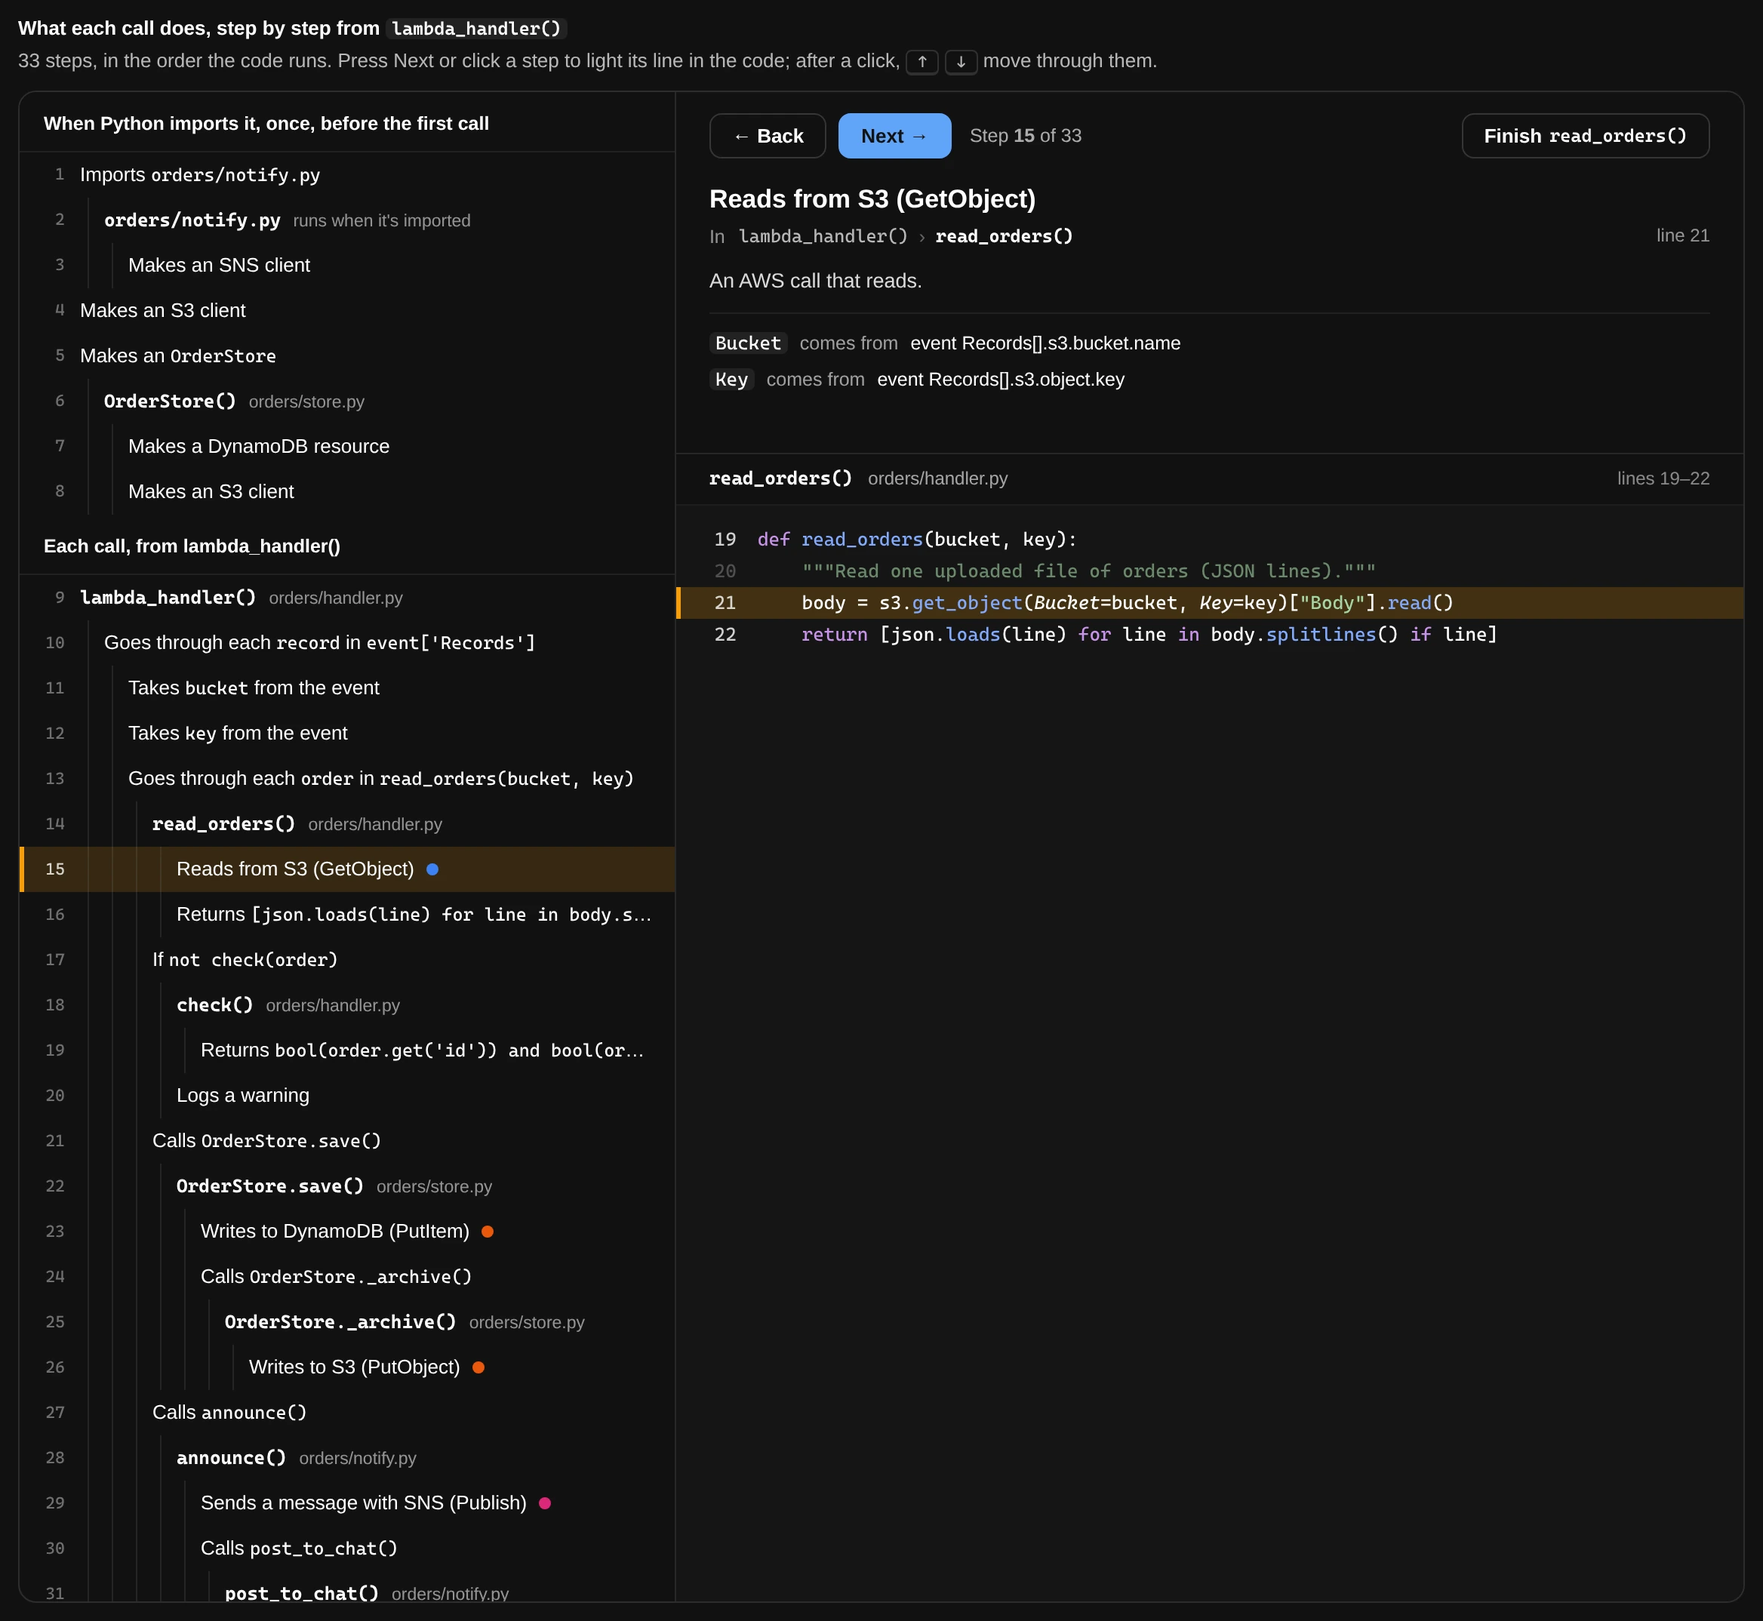
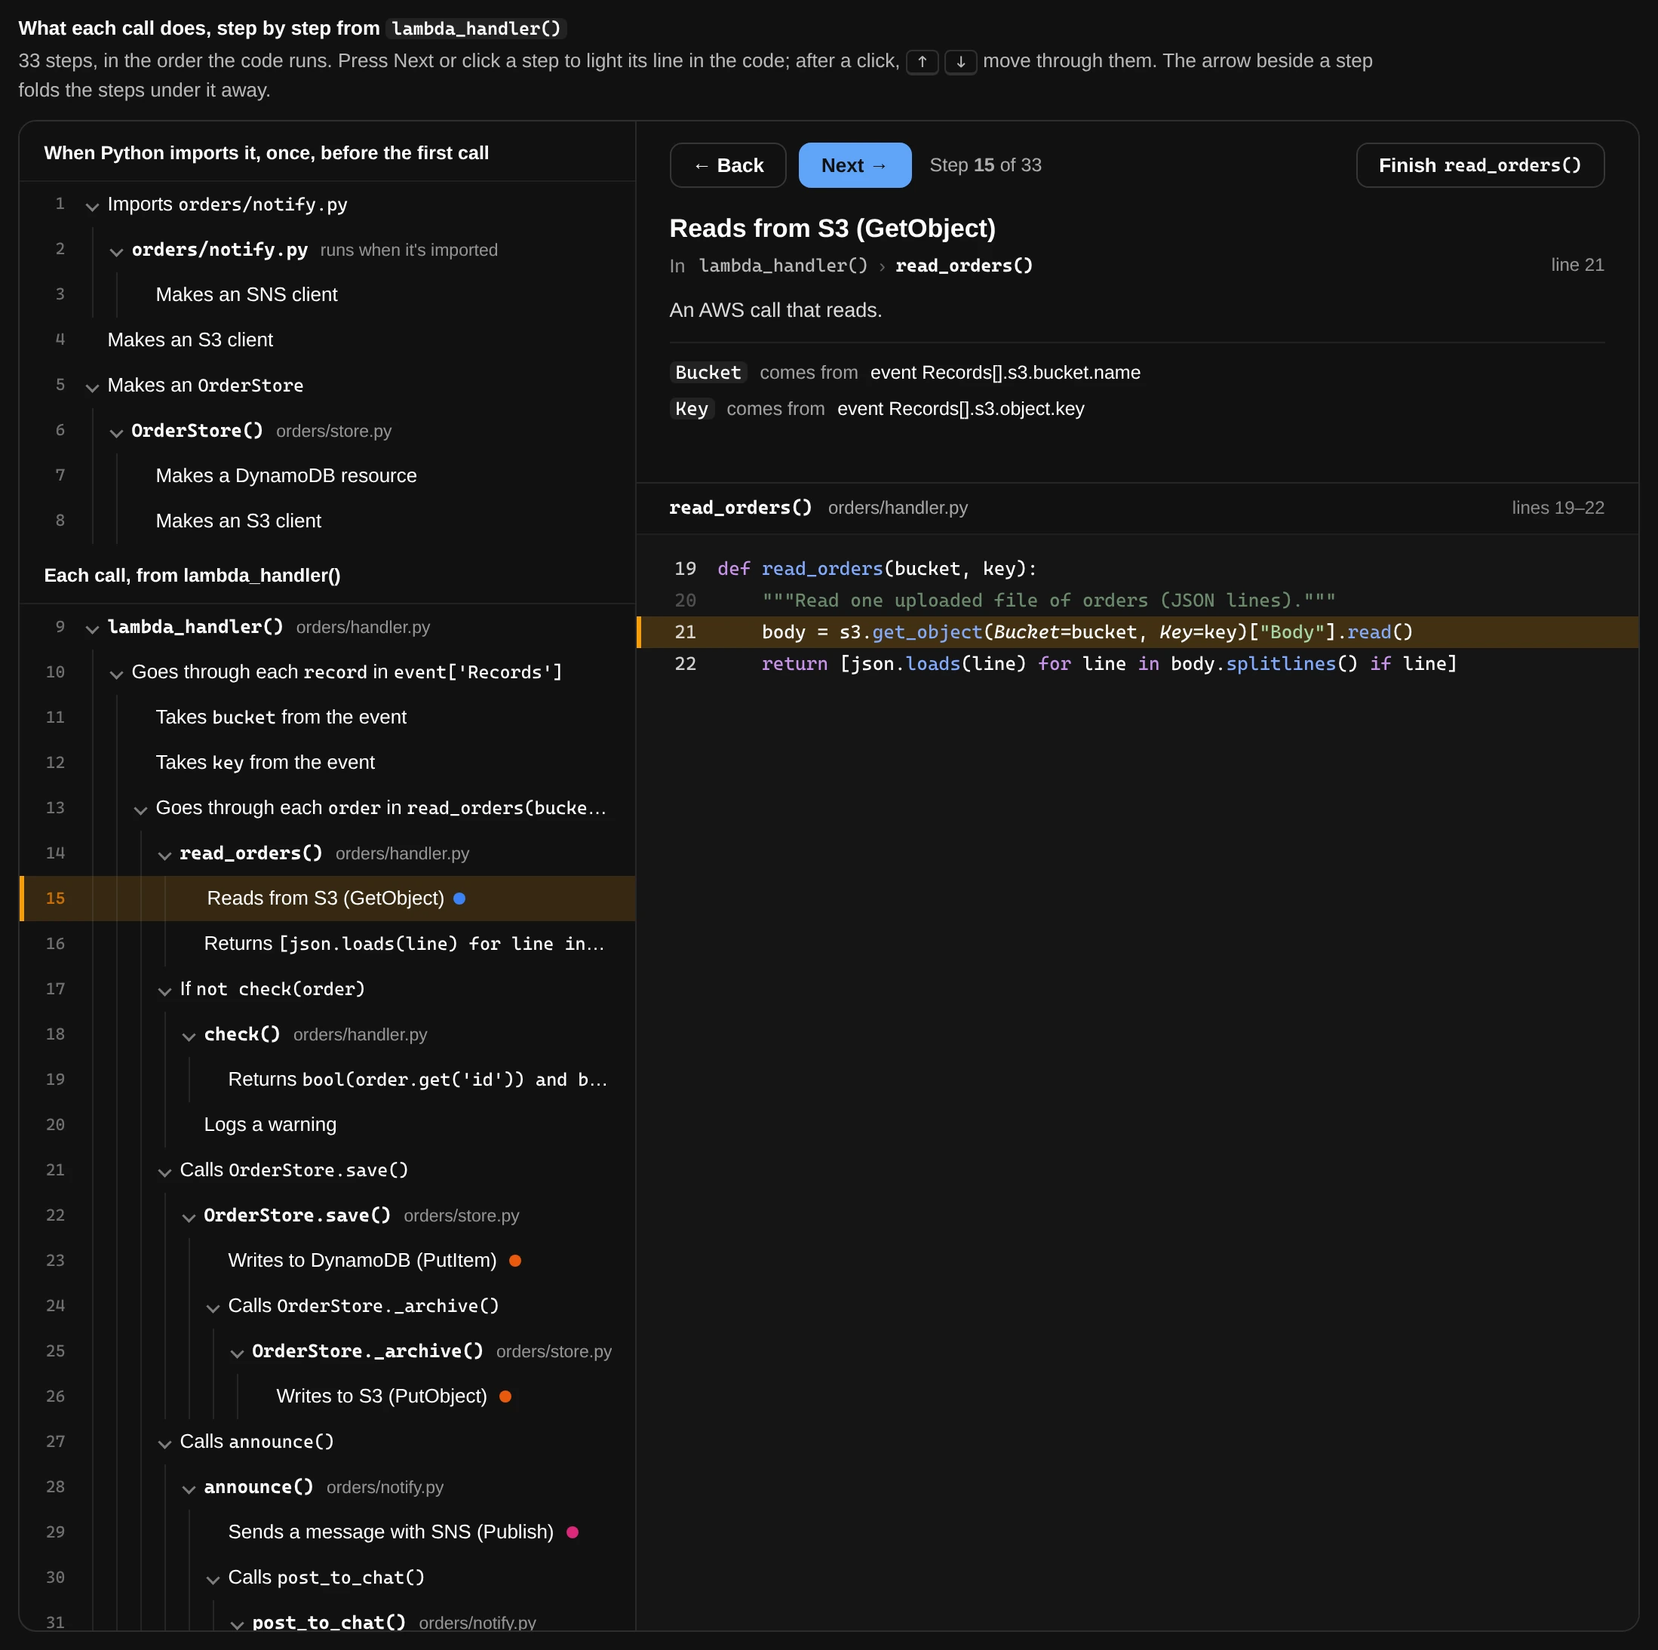
Fold Step by step's list like a tree, and animate the tab
A step with steps under it gets an arrow that folds them away, leaving a
count. Each fold is a checkbox; the steps under it carry its number as a
class, so one rule per fold hides them, beside it or inside the boxes of
what it calls, without :has(). Cards and code still show for a step
folded away.

The tab also moves a little: the card comes in a line at a time, the lit
row eases in, a dot pings when its step is reached, the code fades in on
entering another function and the lit line glows as it lands. All of it
stops under prefers-reduced-motion.

diff --git a/src/code_node/report/style.py b/src/code_node/report/style.py
@@ -298,13 +298,27 @@ _EXTRA_CSS = """\
 .cnd .walk .ws{border-left:1px solid rgba(127,127,127,.2)}
 .cnd .walk .wch{position:sticky;top:0;z-index:2;padding:12px 16px 9px;font-size:12.5px;font-weight:650;background:var(--bg);border-bottom:1px solid rgba(127,127,127,.14)}
 .cnd .walk .wr{display:block;width:0;height:0;margin:0;border:0;padding:0;opacity:0;appearance:none;-webkit-appearance:none;pointer-events:none}
-.cnd .walk .wil{display:flex;align-items:center;gap:10px;min-height:30px;padding:0 14px 0 4px;cursor:pointer;white-space:nowrap;user-select:none;-webkit-user-select:none;transition:background-color .15s}
+.cnd .walk .wil{display:flex;align-items:center;gap:10px;min-height:30px;padding:0 14px 0 4px;cursor:pointer;white-space:nowrap;user-select:none;-webkit-user-select:none;transition:background-color .2s,box-shadow .2s;animation:cnd-row .22s ease-out}
+@keyframes cnd-row{from{opacity:0;transform:translateY(-3px)}}
+.cnd .walk .wcx{position:absolute;width:0;height:0;margin:0;opacity:0;pointer-events:none}
+.cnd .walk .wtg{position:relative;z-index:1;display:block;height:0}
+.cnd .walk .wtg i{position:absolute;top:0;left:calc(40px + var(--d)*16px);width:16px;height:30px;border-radius:4px;cursor:pointer;opacity:.45;transition:opacity .15s,background-color .15s}
+.cnd .walk .wtg i::before{content:"";position:absolute;left:5px;top:12px;width:5px;height:5px;border-right:1.6px solid currentColor;border-bottom:1.6px solid currentColor;transform:rotate(45deg);transition:transform .2s cubic-bezier(.3,.7,.3,1)}
+.cnd .walk .wtg:hover i{opacity:1;background:rgba(127,127,127,.14)}
+.cnd .walk .wcx:checked+.wtg i{opacity:.8}
+.cnd .walk .wcx:checked+.wtg i::before{transform:translate(-1px,1px) rotate(-45deg)}
+.cnd .walk .wcnt{display:none;flex:none;font-size:11px;padding:0 7px;border-radius:9px;line-height:17px;background:rgba(127,127,127,.14);opacity:.75;animation:cnd-in .2s ease}
+.cnd .walk .wcx:checked+.wtg+.wr+.wil .wcnt{display:inline-block}
 .cnd .walk .wil:hover{background-color:rgba(127,127,127,.08)}
 .cnd .walk .wr:checked+.wil{background-color:rgba(245,158,11,.16);box-shadow:inset 3px 0 #f59e0b}
 .cnd .walk .wr:focus-visible+.wil{outline:2px solid var(--blue);outline-offset:-2px}
 .cnd .walk .wno{flex:0 0 26px;text-align:right;font:11px var(--mono);opacity:.4;font-variant-numeric:tabular-nums}
-.cnd .walk .wr:checked+.wil .wno{opacity:.8}
-.cnd .walk .wx{display:flex;align-items:center;align-self:stretch;gap:8px;min-width:0;flex:1;padding-left:calc(var(--d)*16px);background:repeating-linear-gradient(90deg,rgba(127,127,127,.18) 0 1px,transparent 1px 16px) 5px 0/calc(var(--d)*16px) 100% no-repeat}
+.cnd .walk .wr:checked+.wil .wno{opacity:.9;color:#d97706;font-weight:600}
+.cnd .walk .wtx{transition:transform .2s ease}
+.cnd .walk .wr:checked+.wil .wtx{transform:translateX(2px)}
+.cnd .walk .wr:checked+.wil .wdot{animation:cnd-ping 1s ease-out 2}
+@keyframes cnd-ping{from{box-shadow:0 0 0 0 var(--c,rgba(127,127,127,.6))}to{box-shadow:0 0 0 6px transparent}}
+.cnd .walk .wx{display:flex;align-items:center;align-self:stretch;gap:8px;min-width:0;flex:1;padding-left:calc(var(--d)*16px + 18px);background:repeating-linear-gradient(90deg,rgba(127,127,127,.18) 0 1px,transparent 1px 16px) 8px 0/calc(var(--d)*16px) 100% no-repeat}
 .cnd .walk .wtx{min-width:0;overflow:hidden;text-overflow:ellipsis}
 .cnd .walk .wtx code{font:12px var(--mono);background:none;padding:0}
 .cnd .walk :is(.k-def,.k-module) .wtx b{font:650 12.5px var(--mono)}
@@ -312,7 +326,10 @@ _EXTRA_CSS = """\
 .cnd .walk .wdot{flex:none;width:8px;height:8px;border-radius:50%;background:var(--c,rgba(127,127,127,.6))}
 .cnd .walk :is(.d-aws-reads,.d-lib-reads){--c:#3b82f6}.cnd .walk :is(.d-aws-writes,.d-lib-writes){--c:#ea580c}
 .cnd .walk :is(.d-aws-sends,.d-lib-sends,.d-http){--c:#db2777}.cnd .walk :is(.d-aws-runs,.d-lib-runs){--c:#9333ea}.cnd .walk .d-aws-signs{--c:#64748b}
-.cnd .walk .wc{display:none;position:absolute;left:var(--lw);right:0;top:0;height:var(--ch);box-sizing:border-box;overflow:auto;padding:14px 22px 12px;white-space:normal;cursor:auto;border-left:1px solid rgba(127,127,127,.2);border-bottom:1px solid rgba(127,127,127,.18);background:var(--bg);animation:cnd-in .18s ease}
+.cnd .walk .wc{display:none;position:absolute;left:var(--lw);right:0;top:0;height:var(--ch);box-sizing:border-box;overflow:auto;padding:14px 22px 12px;white-space:normal;cursor:auto;border-left:1px solid rgba(127,127,127,.2);border-bottom:1px solid rgba(127,127,127,.18);background:var(--bg)}
+.cnd .walk .wc>*{animation:cnd-in .24s ease both}
+.cnd .walk .wc>.whead{animation-delay:.03s}.cnd .walk .wc>.wstk{animation-delay:.06s}.cnd .walk .wc>.wsay{animation-delay:.09s}.cnd .walk .wc>.wthen{animation-delay:.12s}
+.cnd .walk .wfacts li{animation:cnd-in .24s ease both;animation-delay:.12s}.cnd .walk .wfacts li:nth-child(2){animation-delay:.15s}.cnd .walk .wfacts li:nth-child(n+3){animation-delay:.18s}
 .cnd .walk .wr:checked+.wil+.wc{display:block}
 .cnd .walk .wnav{display:flex;flex-wrap:wrap;align-items:center;gap:8px}
 .cnd .walk .wbt{display:inline-flex;align-items:center;gap:5px;padding:4px 14px;border:1px solid rgba(127,127,127,.32);border-radius:8px;font-size:13px;font-weight:600;line-height:20px;cursor:pointer;user-select:none;-webkit-user-select:none;transition:background-color .12s,transform .06s}
@@ -348,7 +365,9 @@ _EXTRA_CSS = """\
 .cnd .walk :is(.wfm,.wfv){opacity:.6}
 .cnd .walk .wthen{margin-top:10px;font-size:12px;opacity:.6}
 .cnd .walk .wf{display:none;position:absolute;left:var(--lw);right:0;top:var(--ch);bottom:0;flex-direction:column;border-left:1px solid rgba(127,127,127,.2);background:var(--bg)}
-.cnd .walk .wfn>.wr:checked~.wf{display:flex}
+.cnd .walk .wfn>.wr:checked~.wf{display:flex;animation:cnd-fade .25s ease}
+.cnd .walk .wfh{animation:cnd-in .25s ease}
+@keyframes cnd-fade{from{opacity:0}}
 .cnd .walk .wfh{display:flex;flex-wrap:wrap;align-items:baseline;gap:4px 10px;padding:8px 22px;font-size:12px;border-bottom:1px solid rgba(127,127,127,.12)}
 .cnd .walk .wfh b{font:650 12.5px var(--mono)}
 .cnd .walk .wfh span{opacity:.62}
@@ -356,15 +375,16 @@ _EXTRA_CSS = """\
 .cnd .walk .wfw{position:relative;flex:1;min-height:0;overflow-x:auto;overflow-y:hidden;container-type:size;background:rgba(127,127,127,.03)}
 .cnd .walk .wfp{position:relative;box-sizing:border-box;width:max-content;min-width:100%;padding:var(--pad) 0;font:12.5px/var(--lh) var(--mono);
  translate:0 min(0px,max(calc(100cqh - var(--n)*var(--lh) - 2*var(--pad)),calc(36cqh - var(--k,0)*var(--lh))));transition:translate .32s cubic-bezier(.25,.8,.25,1)}
-.cnd .walk .wbar{position:absolute;left:0;right:0;top:calc(var(--pad) + var(--k,-9)*var(--lh));height:var(--lh);background:rgba(245,158,11,.2);box-shadow:inset 3px 0 #f59e0b;transition:top .32s cubic-bezier(.25,.8,.25,1)}
+.cnd .walk .wbar{position:absolute;left:0;right:0;top:calc(var(--pad) + var(--k,-9)*var(--lh));height:var(--lh);background:rgba(245,158,11,.2);box-shadow:inset 3px 0 #f59e0b;transition:top .32s cubic-bezier(.25,.8,.25,1);animation:cnd-glow 1.2s ease-in-out 2}
+@keyframes cnd-glow{50%{background:rgba(245,158,11,.3)}}
 .cnd .walk .sl{position:relative;display:block;padding-right:16px;white-space:pre}
 .cnd .walk span.sl{opacity:.6}
-.cnd .walk label.sl{cursor:pointer}
+.cnd .walk label.sl{cursor:pointer;transition:background-color .15s}
 .cnd .walk label.sl:hover{background:rgba(127,127,127,.1)}
 .cnd .walk .sn{display:inline-block;width:3.2em;padding-right:14px;text-align:right;opacity:.42;user-select:none;-webkit-user-select:none}
 .cnd .walk label.sl .sn{opacity:.8}
 @media (max-width:860px){.cnd .walk{--lt:40vh;grid-template-columns:minmax(0,1fr);grid-template-rows:var(--lt) 1fr;height:calc(var(--lt) + var(--ch) + 380px)}.cnd .walk .wl{max-height:none}.cnd .walk :is(.wc,.wf){left:0;border-left:0}.cnd .walk .wc{top:var(--lt);border-top:1px solid rgba(127,127,127,.2);padding:12px 16px}.cnd .walk .wf{top:calc(var(--lt) + var(--ch))}.cnd .walk .ws{border-left:0}}
-@media (prefers-reduced-motion:reduce){.cnd .walk .wfp,.cnd .walk .wbar,.cnd .walk .wc,.cnd .tabs>.tp{transition:none;animation:none}}"""
+@media (prefers-reduced-motion:reduce){.cnd .walk :is(.wfp,.wbar,.wc,.wc>*,.wfacts li,.wil,.wtx,.wdot,.wcnt,.wf,.wfh,.wtg i,.wtg i::before),.cnd .tabs>.tp{transition:none;animation:none}}"""
 
 _CSS = _base_css(_ROOT, _EXTRA_CSS)
 

diff --git a/src/code_node/report/walk.py b/src/code_node/report/walk.py
@@ -7,6 +7,11 @@ No JavaScript: each step is a radio button (one group, so once one has focus the
 Each function's steps sit in a box of their own, with the function's code drawn once at the end of it; the CSS shows
 the card after the checked button and the code of its box with sibling selectors, so the light slides from line to
 line as you step, and a step costs the same however many there are.
+
+The list folds like a tree: a step with steps under it has a checkbox before it, and its arrow folds them away. Each
+step under it carries the class `wu<step>`, so one rule per fold hides them, whether they sit beside it or inside the
+box of a function it calls (`#cx5:checked ~ .wu5, #cx5:checked ~ * .wu5`). Only the steps' rows are hidden: the
+current one's card and code still show when it's folded away.
 """
 
 from __future__ import annotations
@@ -523,11 +528,29 @@ def _frame_html(index: int, frame: _Frame, rows: list[tuple[int, str]]) -> str:
     )
 
 
-def _item_html(stops: list[_Stop], i: int, card: str) -> str:
+def _folds(stops: list[_Stop]) -> tuple[list[int], list[list[int]]]:
+    """
+    How many steps sit under each stop in the list, and the stops each one sits under, outermost first.
+    """
+    under = [0] * len(stops)
+    above: list[list[int]] = []
+    opened: list[int] = []
+    for i, stop in enumerate(stops):
+        while opened and (stops[opened[-1]].depth >= stop.depth or stops[opened[-1]].chapter != stop.chapter):
+            opened.pop()
+        for j in opened:
+            under[j] += 1
+        above.append(list(opened))
+        opened.append(i)
+    return under, above
+
+
+def _item_html(stops: list[_Stop], i: int, card: str, under: int = 0, above: tuple[int, ...] = ()) -> str:
     """
     A step in the list: its radio button, then its number and what it does in a few words (or, for a function it goes
     into, the function's name and file, as a heading over its steps) as the button's label, then its card, which shows
-    (beside the list) while the button is checked.
+    (beside the list) while the button is checked. under: how many steps sit under it, folded away by the checkbox and
+    arrow before it; above: the steps it sits under, whose folds hide it.
     """
     stop = stops[i]
     step = stop.step
@@ -543,10 +566,18 @@ def _item_html(stops: list[_Stop], i: int, card: str) -> str:
         dot = f'<span class="wdot d-{said}" title="{_esc(_NOTE_TIPS.get(said, ""))}"></span>' if said in _DOTS else ""
         text = f'<span class="wtx">{headline}</span>{dot}'
     checked = " checked" if i == 0 else ""
+    hidden_by = "".join(f" wu{j}" for j in above)
+    fold = ""
+    if under:
+        fold = (
+            f'<input type="checkbox" class="wcx" id="cx{i}" tabindex="-1"><label class="wtg{hidden_by}" for="cx{i}" '
+            f'style="--d:{stop.depth}" title="Fold or unfold the {_plural(under, "step")} under it"><i></i></label>'
+        )
+        text += f'<span class="wcnt">{_plural(under, "step")}</span>'
     return (
-        f'<input type="radio" class="wr" name="{_GROUP}" id="cw{i}"{checked}><label class="wil k-{_esc(step.kind)}" '
-        f'for="cw{i}" style="--d:{stop.depth}"><span class="wno">{i + 1}</span><span class="wx">{text}</span>'
-        f"</label>{card}"
+        f'{fold}<input type="radio" class="wr" name="{_GROUP}" id="cw{i}"{checked}><label class="wil '
+        f'k-{_esc(step.kind)}{hidden_by}" for="cw{i}" style="--d:{stop.depth}"><span class="wno">{i + 1}</span>'
+        f'<span class="wx">{text}</span></label>{card}'
     )
 
 
@@ -576,6 +607,7 @@ def _walk_html(block: _Walk, report: _Report) -> str:
         rows = _frame_rows(frame, highlighted.get(frame.file, []), stops)
         rows_of.append({number: n for n, (number, _) in enumerate(rows) if number})
         drawn.append(_frame_html(k, frame, rows))
+    under, above = _folds(stops)
     out: list[str] = []
     opened: list[int] = []  # the frames whose boxes are open, innermost last
     chapter = -1
@@ -593,7 +625,9 @@ def _walk_html(block: _Walk, report: _Report) -> str:
         if not opened or opened[-1] != stop.frame:  # into a call
             out.append('<div class="wfn">')
             opened.append(stop.frame)
-        out.append(_item_html(stops, i, _card_html(stops, i, first, docs, block.editor)))
+        out.append(_item_html(stops, i, _card_html(stops, i, first, docs, block.editor), under[i], tuple(above[i])))
+        if under[i]:  # its fold hides the steps under it, beside it or in the boxes of what it calls
+            report.rules.add(f".{root} #cx{i}:checked~.wu{i},.{root} #cx{i}:checked~* .wu{i}{{display:none}}")
         at = rows_of[stop.frame].get(stop.lit)
         if at is not None:  # the line its code lights
             report.rules.add(f".{root} #cw{i}:checked~.wf{stop.frame}{{--k:{at}}}")
@@ -601,7 +635,8 @@ def _walk_html(block: _Walk, report: _Report) -> str:
         out.append(drawn[opened.pop()] + "</div>")
     sub = (
         f'<div class="wsub">{_plural(len(stops), "step")}, in the order the code runs. Press Next or click a step to '
-        "light its line in the code; after a click, <kbd>↑</kbd> <kbd>↓</kbd> move through them.</div>"
+        "light its line in the code; after a click, <kbd>↑</kbd> <kbd>↓</kbd> move through them. The arrow beside a "
+        "step folds the steps under it away.</div>"
     )
     return (
         f'{title}{sub}<div class="walk"><div class="wl" role="radiogroup" aria-label="The steps">{"".join(out)}'

diff --git a/tests/test_code_node.py b/tests/test_code_node.py
@@ -148,6 +148,8 @@ def test_the_steps_are_walked_in_the_order_the_code_runs(tmp_path: Path) -> None
         "Finish <code>load()</code>"
     ) in html  # from inside load()
     assert '<div class="whead">Makes an S3 client</div>' in html  # each step said in plain words
+    assert 'id="cx1"' in html and 'id="cx0"' not in html  # lambda_handler() folds; the import line has nothing under it
+    assert "#cx1:checked~.wu1" in html and 'class="wil k-def wu1 wu2 wu3"' in html  # load(), inside its caller's fold
     assert '<span class="wtx">Goes through each <code>record</code> in <code>event[&#x27;Records&#x27;]</code>' in html
     assert '<label class="sl" for="cw5"><span class="sn">10</span>' in html  # load()'s line 10 jumps to its step
     assert ".cnd #cw5:checked~.wf2{--k:1}" in html  # and lights the second line of load()

diff --git a/docs/reading.md b/docs/reading.md
@@ -63,6 +63,10 @@ with each of its own functions as a heading over its steps. A dot marks the step
 graph's colours. On the right is a card saying what the current step does and which calls it's inside, and under it
 the function's code with that line lit.
 
+The list is a tree, like a JSON viewer's: the arrow beside a step with steps under it (a function, a loop, a
+branch) folds them away and leaves a count in their place, so you can hide what you've read and keep the part you're
+following. A folded step still shows its card and code when Next lands on a step inside it.
+
 ![The Step by step tab](images/steps-light.webp#only-light){ loading=lazy }
 ![The Step by step tab](images/steps-dark.webp#only-dark){ loading=lazy }
 
@@ -79,4 +83,5 @@ the function's code with that line lit.
 ??? more "How it works without JavaScript"
     Each step is a radio button and the buttons are its labels, so the arrow keys move between them as they do in any
     radio group. The CSS shows the card of the checked step and the code of the function it's in, and moves the lit
-    line there, which slides when the next step is in the same function.
+    line there, which slides when the next step is in the same function. Each fold is a checkbox, and the steps under
+    it carry its number as a class, so one rule hides them all.

diff --git a/CHANGELOG.md b/CHANGELOG.md
@@ -4,6 +4,13 @@ Every change a user would notice, newest first ([Keep a Changelog](https://keepa
 follow [Semantic Versioning](https://semver.org/); before 1.0, a minor version may change what a command does.
 ## [Unreleased]
 
+### Changed
+
+- Step by step's list folds like a tree: the arrow beside a function, loop or branch hides the steps under it and
+  shows how many it hid. The tab also moves more: a new step's card comes in a line at a time, the lit row and its
+  number ease in, a dot pings when its step is reached, the code fades in when the walk goes into another function,
+  and the lit line glows as it lands. None of it moves for readers who ask for less motion.
+
 ## [0.2.0] - 2026-10-20
 
 ### Changed
